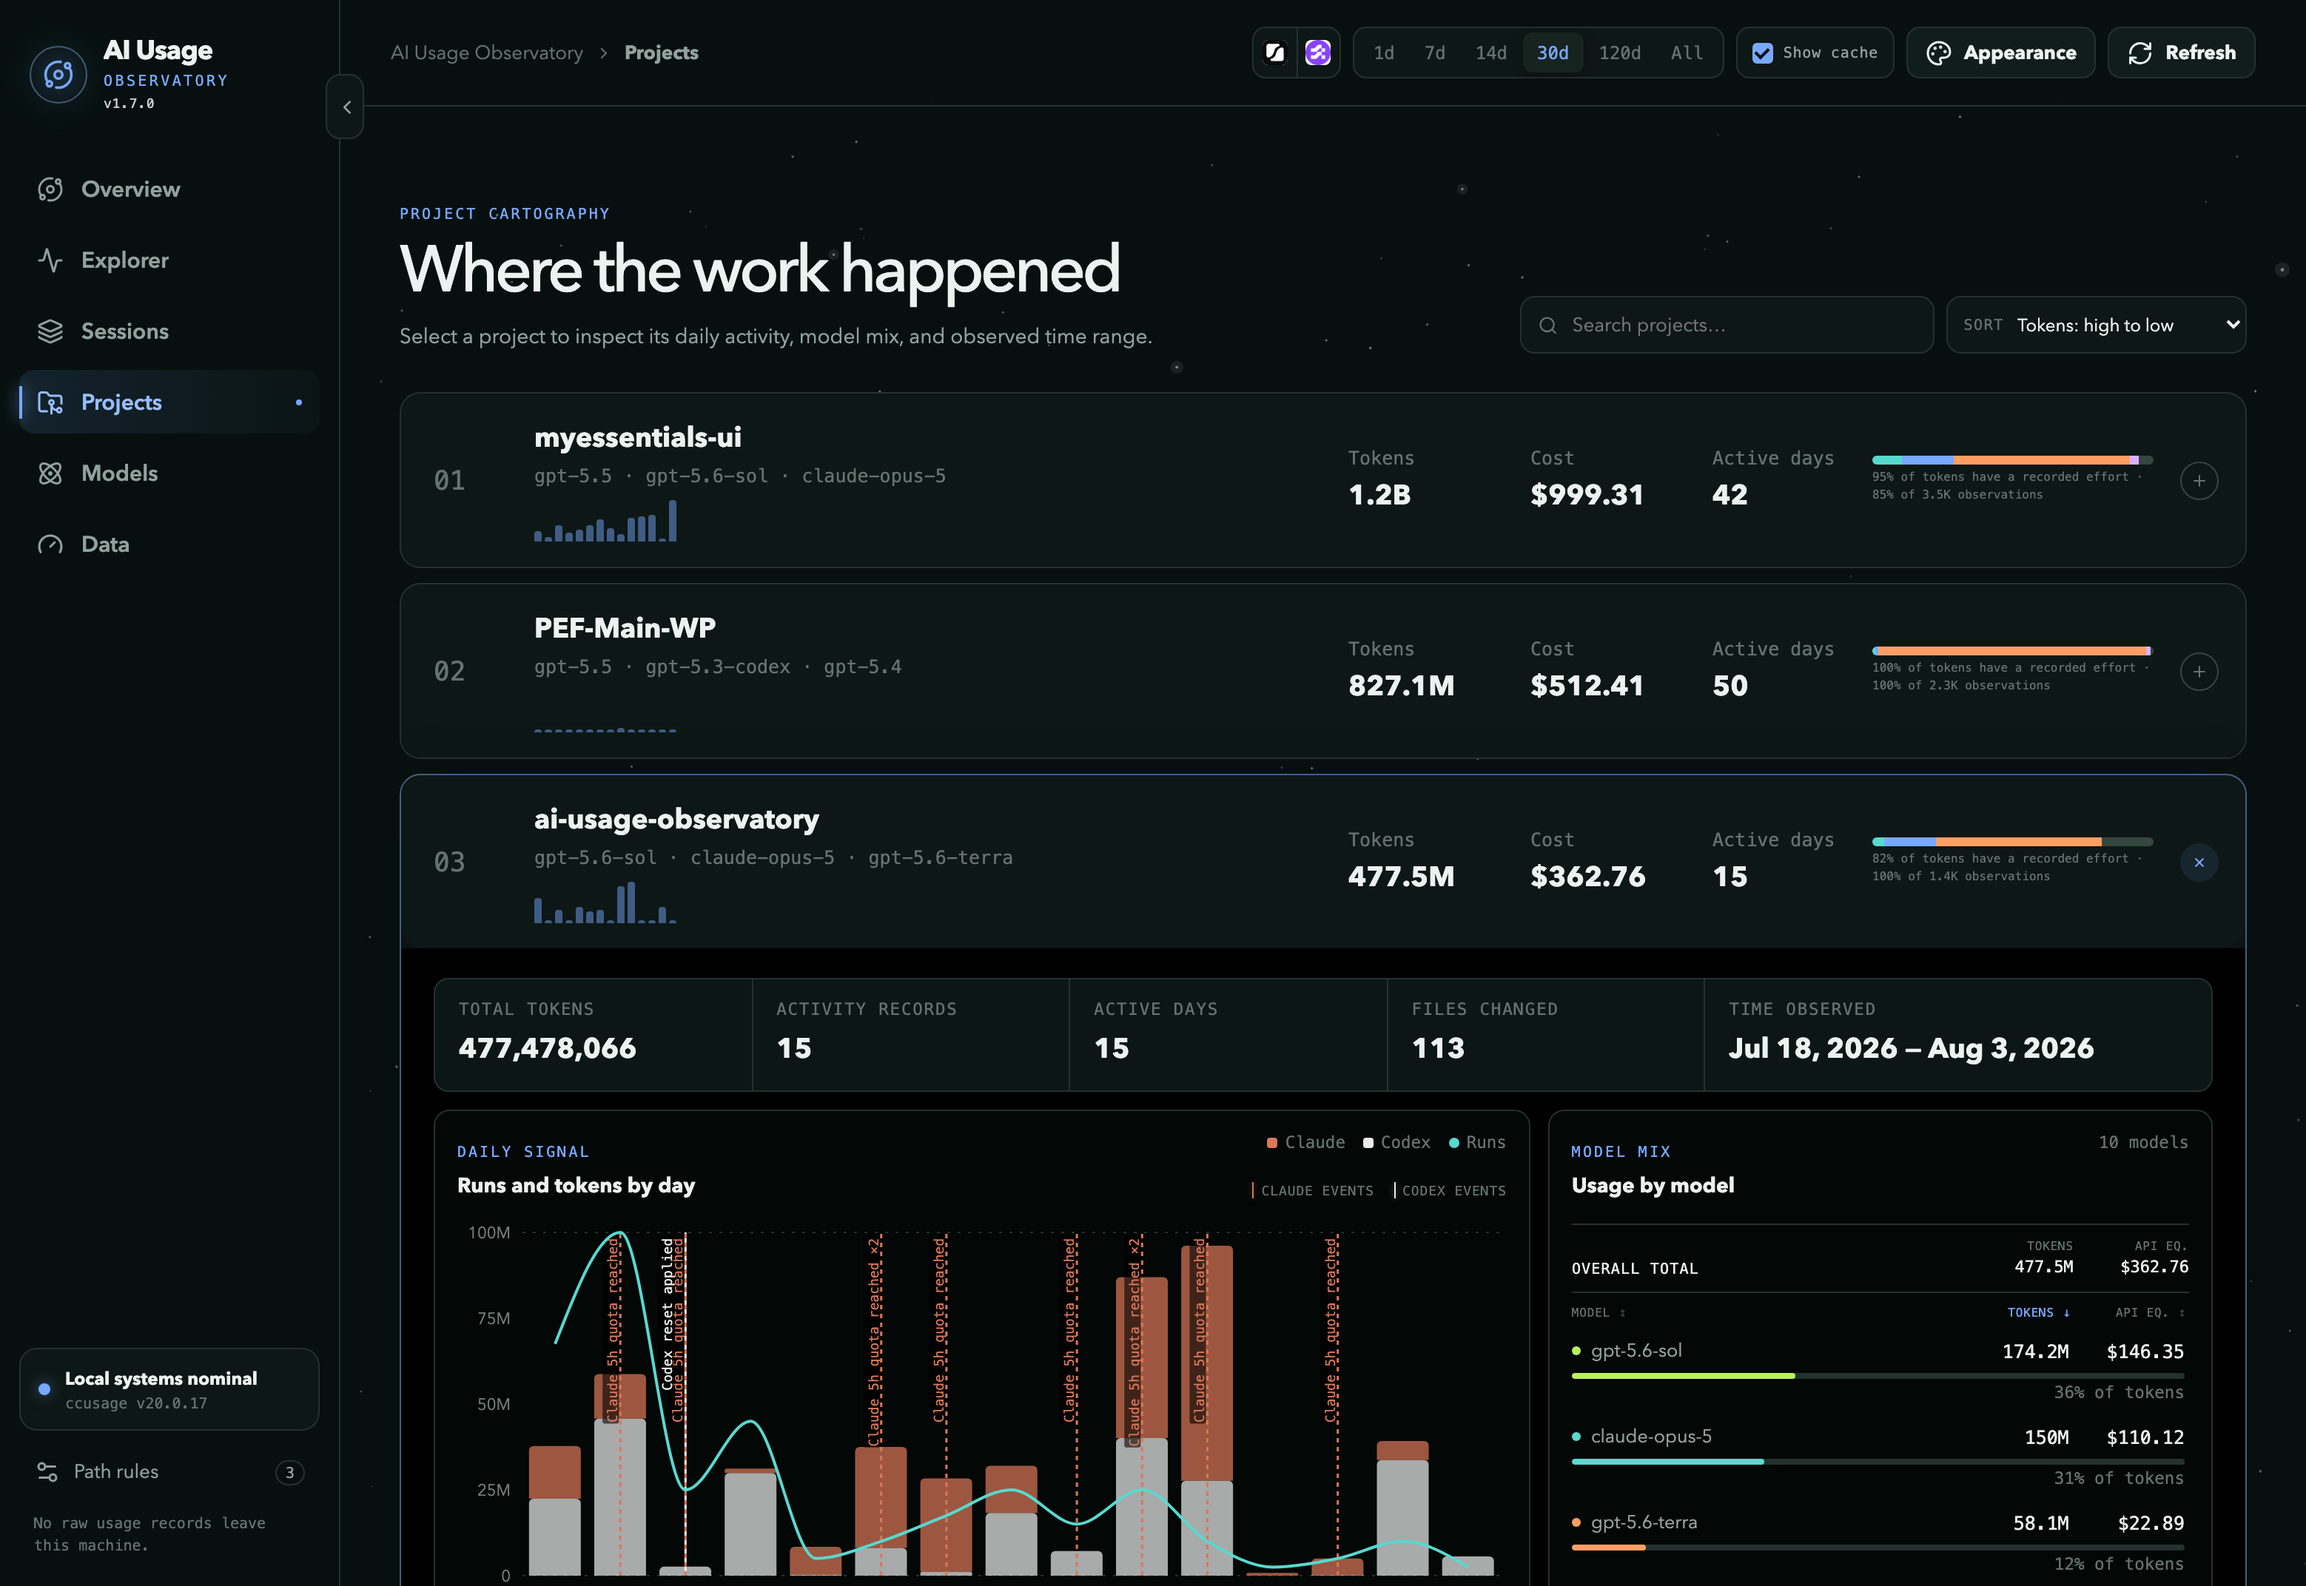
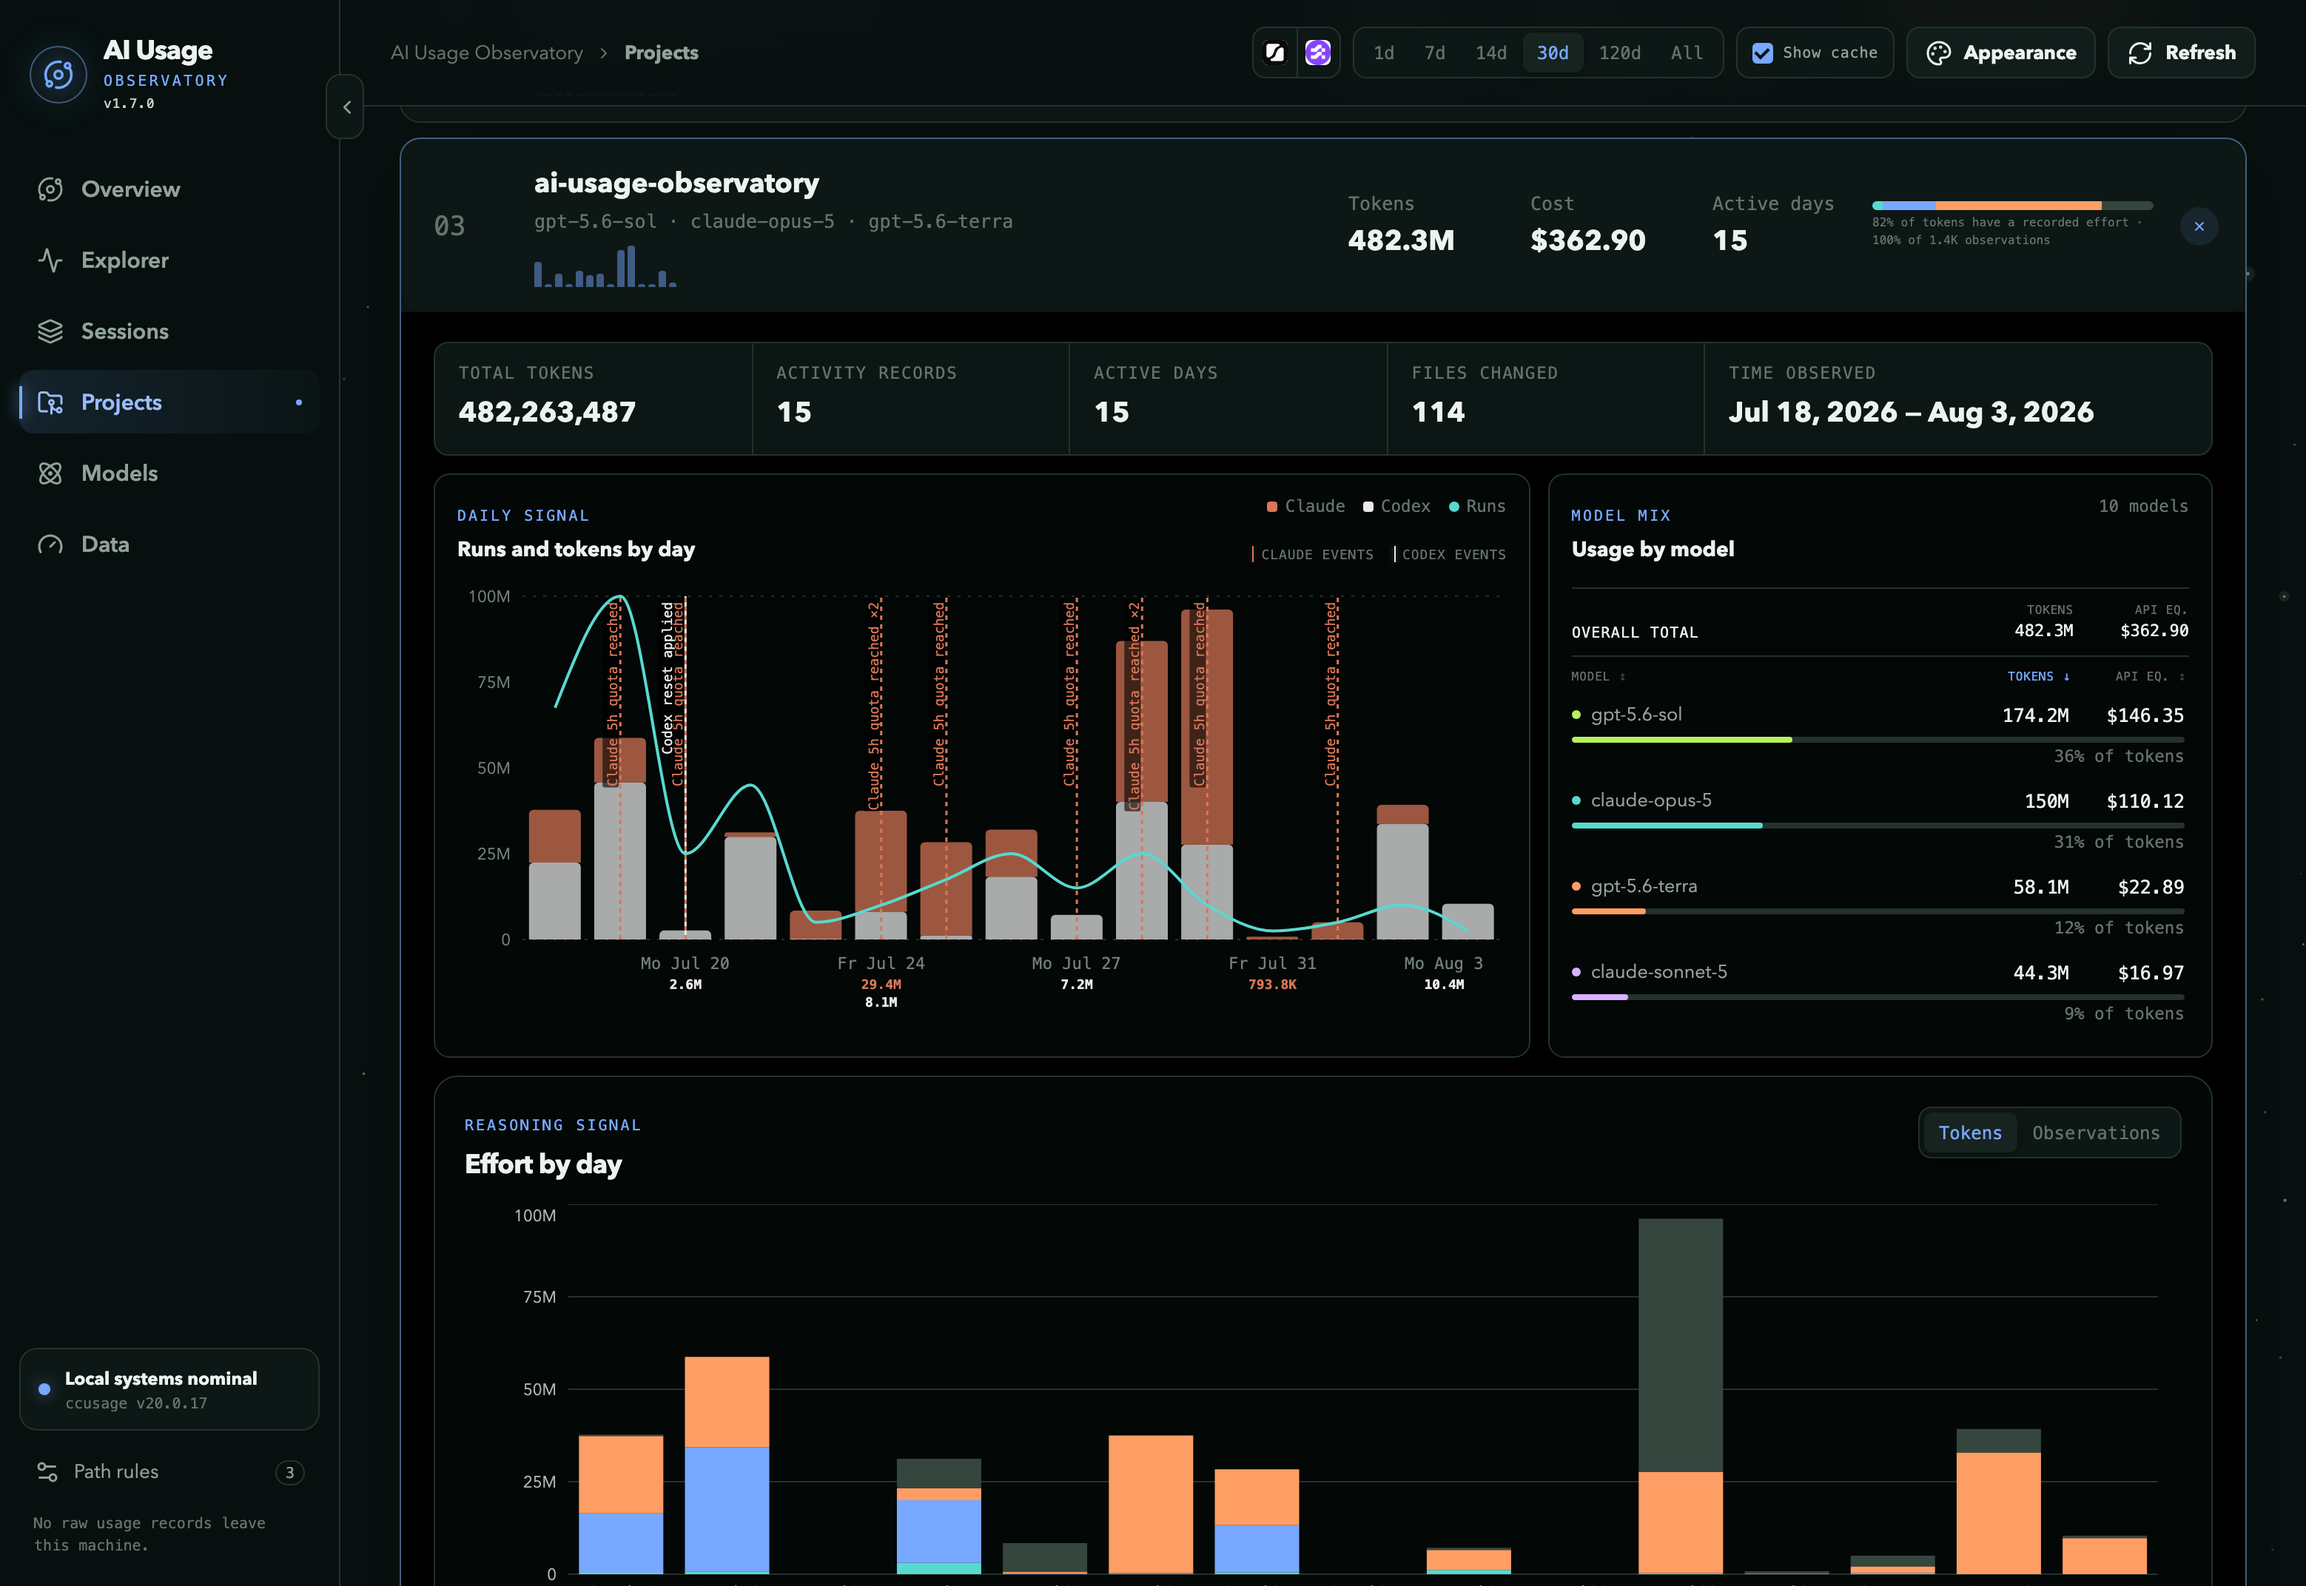
docs(screenshots): frame Projects capture on target project

diff --git a/README.md b/README.md
@@ -73,7 +73,7 @@ changelogs retain their own archived copies.
       <a href="docs/screenshots/4.projects.png">
         <img src="docs/screenshots/4.projects.png" width="100%" alt="Project cartography with daily signal, model mix, and diff trail">
       </a>
-      <sub>Projects — daily signal, model mix, and diff trail</sub>
+      <sub>Projects — expanded ai-usage-observatory detail, with work projects out of frame</sub>
     </td>
     <td width="50%">
       <a href="docs/screenshots/5.models.png">
@@ -109,6 +109,9 @@ run `bun run screenshot:data`. It captures the Data view at a fixed 1558 × 1072
 CSS-pixel viewport. Before a release, preserve the reviewed image with
 `bun run screenshot:archive -- vX.Y.Z`; the changelog must use that archived
 copy instead of the rolling README image.
+
+For Projects captures, open `ai-usage-observatory` and scroll it into view so
+`myessentials-ui` and `PEF-Main-WP` are outside the screenshot frame.
 
 ## What you get
 

diff --git a/docs/RELEASING.md b/docs/RELEASING.md
@@ -155,6 +155,10 @@ git diff -- package.json CHANGELOG.md README.md
 git status --short
 ```
 
+For Projects screenshots, open `ai-usage-observatory` and scroll it into view
+so the work-related projects `myessentials-ui` and `PEF-Main-WP` are outside the
+capture frame. Preserve that framing in future rolling and release captures.
+
 ## 4. Commit and tag
 
 After applying `git-identity-routing`, stage the version change and create the
